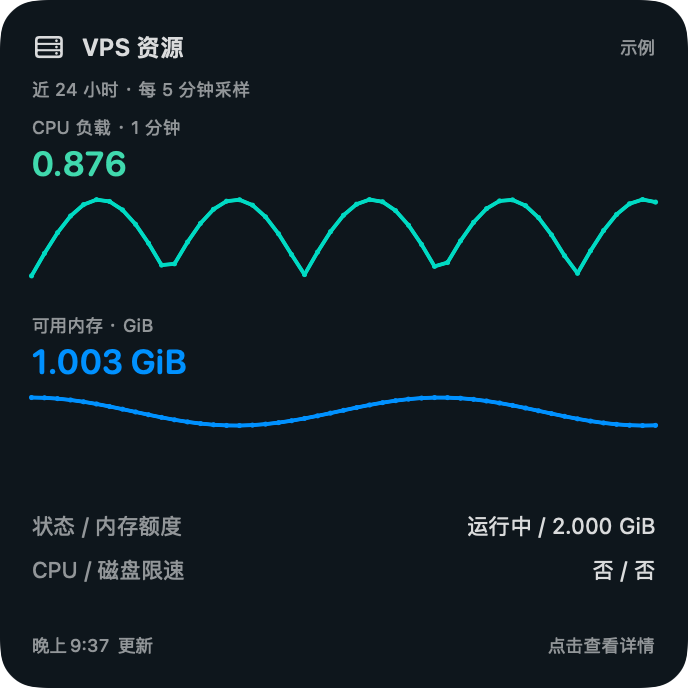
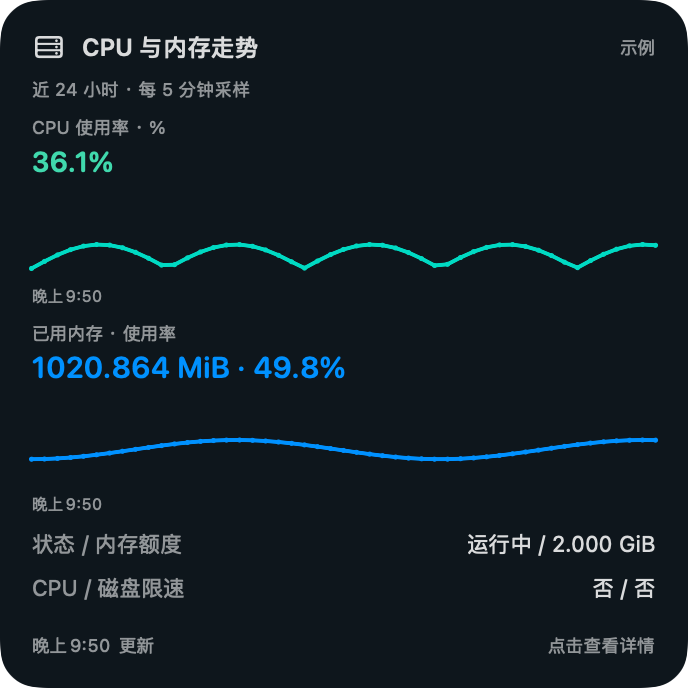
Show API CPU percentages and used memory with utilization

diff --git a/Sources/App.swift b/Sources/App.swift
@@ -33,6 +33,7 @@ enum Page: String, CaseIterable, Identifiable {
     @Published var interval = 5
     @Published var usageSamples: [UsagePoint] = []
     @Published var resourceSamples: [ResourcePoint] = []
+    @Published var cpuSamples: [ResourcePoint] = []
     var lastOverviewRequest: Date?
     @Published var showMenuBar = true
     @Published var loginEnabled = false
@@ -61,6 +62,7 @@ enum Page: String, CaseIterable, Identifiable {
     var info: [String: Any] { data[.info] ?? [:] }
     var live: [String: Any] { data[.live] ?? [:] }
     var traffic: Traffic? { Traffic(info) }
+    var memory: MemoryUsage? { MemoryUsage(total:numeric(live["plan_ram"] ?? info["plan_ram"]),available:numeric(live["mem_available_kb"]).map { $0 * 1024 }) }
     var configured: Bool { !veid.isEmpty && !key.isEmpty }
     init(demo: Bool) {
         self.demo = demo
@@ -73,6 +75,7 @@ enum Page: String, CaseIterable, Identifiable {
         do { key = try Vault.read(veid) ?? "" } catch { message = error.localizedDescription }
         showSettings = !configured
         resourceSamples = ResourceHistory.read(instanceID:veid)
+        cpuSamples = ResourceHistory.readCPU(instanceID:veid)
         startTimer()
     }
     func startTimer() {
@@ -97,6 +100,7 @@ enum Page: String, CaseIterable, Identifiable {
         task?.cancel(); loading = false
         veid = id; key = secret; interval = minutes
         resourceSamples = ResourceHistory.read(instanceID:id)
+        cpuSamples = ResourceHistory.readCPU(instanceID:id)
         UserDefaults.standard.set(id, forKey: "veid"); UserDefaults.standard.set(minutes, forKey: "interval")
         data = [:]; errors = [:]; updated = [:]; usageSamples = []; message = nil; showSettings = false
         startTimer(); refresh()
@@ -105,7 +109,7 @@ enum Page: String, CaseIterable, Identifiable {
         guard !demo else { return }
         try Vault.delete(veid)
         task?.cancel(); loading = false
-        resourceSamples = []
+        resourceSamples = []; cpuSamples = []
         do { try ResourceHistory.write([],instanceID:"") }
         catch { message = "本机资源历史清理失败。" }
         key = ""; veid = ""; data = [:]; errors = [:]; updated = [:]; usageSamples = []
@@ -117,7 +121,7 @@ enum Page: String, CaseIterable, Identifiable {
     }
     func refresh(missingOnly: Bool = false, includeOverview: Bool = true, resourcesOnly: Bool = false) {
         guard !loading, configured, !demo else { return }
-        var endpoints: [Endpoint] = resourcesOnly ? [.live] : includeOverview ? [.info, .live, .usage] : []
+        var endpoints: [Endpoint] = resourcesOnly ? [.live, .usage] : includeOverview ? [.info, .live, .usage] : []
         if includeOverview && !resourcesOnly { lastOverviewRequest = Date() }
         for ep in (resourcesOnly ? [] : page.endpoints) where !endpoints.contains(ep) { endpoints.append(ep) }
         if missingOnly { endpoints = endpoints.filter { data[$0] == nil && errors[$0] == nil } }
@@ -130,10 +134,15 @@ enum Page: String, CaseIterable, Identifiable {
                     let result = try await APIClient.fetch(endpoint, veid: id, key: secret)
                     guard !Task.isCancelled, veid == id else { return }
                     data[endpoint] = result; errors[endpoint] = nil; updated[endpoint] = Date()
-                    if endpoint == .usage { usageSamples = UsageHistory.parse(result) }
+                    if endpoint == .usage {
+                        usageSamples = UsageHistory.parse(result)
+                        cpuSamples = ResourceHistory.mergeCPU(ResourceHistory.cpuSamples(result),previous:cpuSamples)
+                        do { try ResourceHistory.write(resourceSamples,instanceID:id,cpuPoints:cpuSamples) }
+                        catch { message = "资源历史保存失败，请检查本机存储。" }
+                    }
                     if endpoint == .live, let point = ResourceHistory.sample(result) {
                         resourceSamples = ResourceHistory.append(point,to:resourceSamples)
-                        do { try ResourceHistory.write(resourceSamples,instanceID:id) }
+                        do { try ResourceHistory.write(resourceSamples,instanceID:id,cpuPoints:cpuSamples) }
                         catch { message = "资源历史保存失败，请检查本机存储。" }
                     }
                 } catch {
@@ -156,7 +165,8 @@ enum Page: String, CaseIterable, Identifiable {
             snapshot.instanceID = veid
             snapshot.resourceTrend = resourceSamples.filter { $0.time >= Date().addingTimeInterval(-86400) }
             snapshot.resourceUpdated = resourceSamples.last?.time
-            snapshot.resourceError = errors[.live] != nil
+            snapshot.resourceError = errors[.live] != nil || errors[.usage] != nil
+            snapshot.cpuTrend = cpuSamples.filter { $0.time >= Date().addingTimeInterval(-86400) }
             snapshot.trend = UsageHistory.aggregate(usageSamples, days: 7)
             snapshot.trendUpdated = updated[.usage]
             if usageSamples.isEmpty && updated[.usage] == nil {
@@ -189,6 +199,7 @@ enum Page: String, CaseIterable, Identifiable {
     }
     func seedDemo() {
         resourceSamples = ResourceHistory.demo
+        cpuSamples = ResourceHistory.demo
         veid = "1234567"
         data[.info] = ["error":0,"hostname":"My Bandwagon VPS","node_alias":"v1234","node_location":"US, Los Angeles","vm_type":"kvm","plan":"KVM • 2 GB / 40 GB","plan_ram":2147483648.0,"plan_swap":1073741824,"plan_disk":42949672960.0,"plan_monthly_data":1073741824000.0,"data_counter":289910292480.0,"monthly_data_multiplier":1,"data_next_reset":Date().addingTimeInterval(12*86400).timeIntervalSince1970,"ip_addresses":["192.0.2.10","2001:db8::/64"],"private_ip_addresses":[],"os":"debian-12-x86_64","suspended":0,"policy_violation":0,"ptr":["192.0.2.10":"vps.example.com"],"ip_nullroutes":[:],"email":"demo@example.com"]
         data[.live] = ["error":0,"ve_status":"Running","load_average":"0.08 0.12 0.09","mem_available_kb":1468006,"swap_total_kb":1048576,"swap_available_kb":1048576,"ve_used_disk_space_b":12884901888.0,"ve_disk_quota_gb":40,"is_cpu_throttled":0,"is_disk_throttled":0,"ssh_port":22,"live_hostname":"my-vps"]
@@ -356,7 +367,7 @@ struct RootView: View {
                 HStack {
                     Metric(title: "运行状态", value: stateText)
                     Metric(title: "系统负载", value: value("load_average", live: true))
-                    Metric(title: "可用内存", value: bytes(numeric(model.live["mem_available_kb"]).map { $0 * 1024 }))
+                    Metric(title: "已用内存", value: bytes(model.memory?.used))
                 }
                 Divider()
                 InfoRow(label: "CPU / 磁盘限速", value: "\(flag("is_cpu_throttled", live: true)) / \(flag("is_disk_throttled", live: true))")
@@ -377,10 +388,11 @@ struct RootView: View {
     }
     var resources: some View {
         Group {
-            ResourceHistoryPanel(points:model.resourceSamples)
+            ResourceHistoryPanel(points:model.resourceSamples,cpuPoints:model.cpuSamples)
             Panel(title: "内存与存储") {
                 InfoRow(label: "内存额度", value: bytes(numeric(model.info["plan_ram"])))
-                InfoRow(label: "可用内存", value: bytes(numeric(model.live["mem_available_kb"]).map { $0 * 1024 }))
+                InfoRow(label: "已用内存", value: bytes(model.memory?.used))
+                InfoRow(label: "内存使用率", value: memoryPercent(model.memory))
                 InfoRow(label: "Swap 额度", value: bytes(numeric(model.info["plan_swap"])))
                 InfoRow(label: "Swap 可用 / 总量", value: "\(bytes(numeric(model.live["swap_available_kb"]).map { $0 * 1024 })) / \(bytes(numeric(model.live["swap_total_kb"]).map { $0 * 1024 }))")
                 InfoRow(label: "磁盘套餐额度", value: bytes(numeric(model.info["plan_disk"])))
@@ -625,6 +637,27 @@ struct SettingsView: View {
         if CommandLine.arguments.contains("--runtime-status") {
             let snapshot = WidgetStore.read()
             print("Login: \(BackgroundService.statusText); menu visible: \(UserDefaults.standard.object(forKey: "showMenuBar") as? Bool ?? true); configured: \(snapshot.configured); trend points: \(snapshot.trend?.count ?? 0)")
+            return
+        }
+        if CommandLine.arguments.contains("--api-schema") {
+            Task { @MainActor in
+                do {
+                    let id = UserDefaults.standard.string(forKey:"veid") ?? ""
+                    guard !id.isEmpty, let key = try Vault.read(id) else { exit(1) }
+                    for endpoint in [Endpoint.info, .live, .usage] {
+                        let data = try await APIClient.fetch(endpoint,veid:id,key:key)
+                        print(endpoint.rawValue + " fields: " + data.keys.sorted().joined(separator:", "))
+                        if endpoint == .usage {
+                            let rows = data["data"] as? [[String:Any]] ?? Array((data["data"] as? [String:[String:Any]] ?? [:]).values)
+                            print("Usage sample fields: " + Set(rows.flatMap { $0.keys }).sorted().joined(separator:", "))
+                            let cpu = rows.compactMap { numeric($0["cpu_usage"]) }
+                            print("CPU field present: \( !cpu.isEmpty); all between 0 and 100: \( !cpu.isEmpty && cpu.allSatisfy { $0 >= 0 && $0 <= 100 }); values above 1000: \(cpu.contains { $0 > 1000 })")
+                        }
+                    }
+                    exit(0)
+                } catch { print("API schema inspection failed"); exit(1) }
+            }
+            NSApplication.shared.run()
             return
         }
         if CommandLine.arguments.contains("--widget-check") {

diff --git a/Shared/ResourceHistory.swift b/Shared/ResourceHistory.swift
@@ -2,15 +2,31 @@ import Foundation
 import SwiftUI
 import Charts
 
+struct MemoryUsage {
+    let total: Double
+    let available: Double
+    var used: Double { total - available }
+    var percent: Double { used / total * 100 }
+    init?(total: Double?, available: Double?) {
+        guard let total, let available, total.isFinite, available.isFinite, total > 0, available >= 0, available <= total else { return nil }
+        self.total = total; self.available = available
+    }
+}
+func memoryPercent(_ usage: MemoryUsage?) -> String { usage.map { String(format:"%.1f%%",$0.percent) } ?? "—" }
+
 struct ResourcePoint: Codable, Identifiable {
     var time: Date
     var load: Double?
     var availableRAM: Double?
+    var totalRAM: Double? = nil
+    var cpuPercent: Double? = nil
+    var memory: MemoryUsage? { MemoryUsage(total:totalRAM,available:availableRAM) }
     var id: Date { time }
 }
 struct ResourceArchive: Codable {
     var instanceID: String
     var points: [ResourcePoint]
+    var cpuPoints: [ResourcePoint]? = nil
 }
 enum ResourceHistory {
     static let retention: TimeInterval = 30 * 86400
@@ -20,7 +36,7 @@ enum ResourceHistory {
         let raw = live["mem_available_kb"]
         let memory = (raw as? NSNumber)?.doubleValue ?? (raw as? String).flatMap(Double.init)
         func valid(_ n: Double?) -> Double? { n.flatMap { $0.isFinite && $0 >= 0 ? $0 : nil } }
-        let point = ResourcePoint(time: now, load: valid(load), availableRAM: valid(memory.map { $0 * 1024 }))
+        let point = ResourcePoint(time: now, load: valid(load), availableRAM: valid(memory.map { $0 * 1024 }), totalRAM: valid((live["plan_ram"] as? NSNumber)?.doubleValue ?? (live["plan_ram"] as? String).flatMap(Double.init)))
         return point.load == nil && point.availableRAM == nil ? nil : point
     }
     static func append(_ point: ResourcePoint, to points: [ResourcePoint]) -> [ResourcePoint] {
@@ -37,17 +53,41 @@ enum ResourceHistory {
         guard let archive = try? JSONDecoder().decode(ResourceArchive.self,from:data), archive.instanceID == instanceID else { return nil }
         return archive.points.filter { $0.time >= now.addingTimeInterval(-retention) && $0.time <= now }.sorted { $0.time < $1.time }
     }
-    static func write(_ points: [ResourcePoint], instanceID: String) throws {
+    static func write(_ points: [ResourcePoint], instanceID: String, cpuPoints: [ResourcePoint] = []) throws {
         guard let dir = WidgetStore.directory else { throw NSError(domain:"ResourceHistory",code:1) }
         try FileManager.default.createDirectory(at:dir,withIntermediateDirectories:true)
         let path = dir.appendingPathComponent("resource-history.json")
-        try JSONEncoder().encode(ResourceArchive(instanceID:instanceID,points:points)).write(to:path,options:.atomic)
+        try JSONEncoder().encode(ResourceArchive(instanceID:instanceID,points:points,cpuPoints:cpuPoints)).write(to:path,options:.atomic)
         try FileManager.default.setAttributes([.posixPermissions:0o600],ofItemAtPath:path.path)
+    }
+    static func cpuSamples(_ payload: [String:Any], now: Date = Date()) -> [ResourcePoint] {
+        let rows = payload["data"] as? [[String:Any]] ?? Array((payload["data"] as? [String:[String:Any]] ?? [:]).values)
+        var points: [Date:ResourcePoint] = [:]
+        func number(_ v: Any?) -> Double? { (v as? NSNumber)?.doubleValue ?? (v as? String).flatMap(Double.init) }
+        for row in rows {
+            guard let stamp = number(row["timestamp"]), stamp.isFinite, stamp > 0,
+                  let cpu = number(row["cpu_usage"]), cpu.isFinite, cpu >= 0 else { continue }
+            let time = Date(timeIntervalSince1970:stamp)
+            guard time <= now, time >= now.addingTimeInterval(-retention) else { continue }
+            points[time] = ResourcePoint(time:time,load:nil,availableRAM:nil,cpuPercent:cpu)
+        }
+        return points.values.sorted { $0.time < $1.time }
+    }
+    static func mergeCPU(_ fresh: [ResourcePoint], previous: [ResourcePoint], now: Date = Date()) -> [ResourcePoint] {
+        var merged: [Date:ResourcePoint] = [:]
+        for p in previous + fresh where p.time >= now.addingTimeInterval(-retention) && p.time <= now { merged[p.time] = p }
+        return merged.values.sorted { $0.time < $1.time }
+    }
+    static func readCPU(instanceID: String, now: Date = Date()) -> [ResourcePoint] {
+        guard let dir = WidgetStore.directory,
+              let data = try? Data(contentsOf:dir.appendingPathComponent("resource-history.json")),
+              let archive = try? JSONDecoder().decode(ResourceArchive.self,from:data), archive.instanceID == instanceID else { return [] }
+        return mergeCPU([],previous:archive.cpuPoints ?? [],now:now)
     }
     static var demo: [ResourcePoint] {
         let now = Date()
         return (0..<49).map { i in
-            ResourcePoint(time:now.addingTimeInterval(Double(i - 48)*300),load:0.2 + abs(sin(Double(i)*0.3))*0.7,availableRAM:(1.2 + cos(Double(i)*0.2)*0.2)*1073741824)
+            ResourcePoint(time:now.addingTimeInterval(Double(i - 48)*300),load:0.2 + abs(sin(Double(i)*0.3))*0.7,availableRAM:(1.2 + cos(Double(i)*0.2)*0.2)*1073741824,totalRAM:2*1073741824,cpuPercent:12 + abs(sin(Double(i)*0.3))*25)
         }
     }
     static func test() throws {
@@ -65,6 +105,16 @@ enum ResourceHistory {
         guard decode(encoded,instanceID:"demo",now:now.addingTimeInterval(60))?.count == 1,
               decode(encoded,instanceID:"another-vps",now:now) == nil,
               decode(Data("invalid".utf8),instanceID:"demo",now:now) == nil else { throw NSError(domain:"Resource cache",code:1) }
+        guard let memory = MemoryUsage(total:2048,available:512), memory.used == 1536, memory.percent == 75,
+              MemoryUsage(total:0,available:0) == nil, MemoryUsage(total:1024,available:2048) == nil,
+              MemoryUsage(total:1024,available:nil) == nil else { throw NSError(domain:"Memory calculation",code:1) }
+        let cpu = cpuSamples(["data":[["timestamp":now.timeIntervalSince1970,"cpu_usage":"12.5"], ["timestamp":now.timeIntervalSince1970-300,"cpu_usage":0], ["timestamp":now.timeIntervalSince1970-600,"cpu_usage":-1], ["timestamp":now.timeIntervalSince1970-900]]],now:now)
+        guard cpu.count == 2, cpu.last?.cpuPercent == 12.5, cpu.first?.cpuPercent == 0,
+              mergeCPU(cpu,previous:cpu,now:now).count == 2 else { throw NSError(domain:"CPU history",code:1) }
+        let legacy = Data("{\"instanceID\":\"demo\",\"points\":[]}".utf8)
+        guard decode(legacy,instanceID:"demo",now:now)?.isEmpty == true else { throw NSError(domain:"Legacy history",code:1) }
+        print("PASS: CPU 原始百分比、有效零值、缺失值、历史去重与旧缓存兼容")
+        print("PASS: 已用内存、使用率、缺失数据与无效额度处理")
         print("PASS: 资源采样解析、停机与缺失值、有效零值、五分钟去重、30天保留及缓存编码")
     }
 }
@@ -83,7 +133,7 @@ struct ResourceTrend: View {
         var segment = 0
         var previous: Date?
         for point in points {
-            guard let value = memory ? point.availableRAM.map({ $0 / 1073741824 }) : point.load else { segment += 1; previous = nil; continue }
+            guard let value = memory ? point.memory?.percent : point.cpuPercent else { segment += 1; previous = nil; continue }
             if let previous, point.time.timeIntervalSince(previous) > 450 { segment += 1 }
             result.append(PlotPoint(time:point.time,value:value,segment:segment))
             previous = point.time
@@ -95,11 +145,11 @@ struct ResourceTrend: View {
             Text("等待采样").font(.caption).foregroundStyle(.secondary).frame(maxWidth:.infinity,maxHeight:.infinity)
         } else {
             Chart(plotted) { point in
-                LineMark(x:.value("时间",point.time),y:.value(memory ? "GiB" : "负载",point.value),series:.value("连续段",point.segment))
+                LineMark(x:.value("时间",point.time),y:.value("%",point.value),series:.value("连续段",point.segment))
                     .foregroundStyle(memory ? Color.blue : Color.mint)
                 PointMark(x:.value("时间",point.time),y:.value("数值",point.value)).foregroundStyle(memory ? Color.blue : Color.mint).symbolSize(compact ? 5 : 10)
             }
-            .chartYScale(domain:0...max(0.01,(plotted.map(\.value).max() ?? 0)*1.1))
+            .chartYScale(domain:0...(memory ? 100 : max(100,(plotted.map(\.value).max() ?? 0)*1.1)))
             .chartXAxis { if !compact { AxisMarks(values:.automatic(desiredCount:4)) { _ in AxisGridLine(); AxisValueLabel(format:.dateTime.hour().minute()) } } }
             .chartYAxis { if !compact { AxisMarks(position:.leading,values:.automatic(desiredCount:3)) } }
             .chartLegend(.hidden)

diff --git a/Widget/BandwagonWidgets.swift b/Widget/BandwagonWidgets.swift
@@ -29,7 +29,7 @@ struct MonitorWidgetView: View {
     var body: some View {
         VStack(alignment: .leading, spacing: family == .systemSmall ? 4 : 8) {
             HStack {
-                Label(category == "traffic" ? "搬瓦工流量" : category == "resources" ? "VPS 资源" : category == "history" ? "流量走势" : "VPS 网络", systemImage: "server.rack").font(.system(size: 12, weight: .semibold))
+                Label(category == "traffic" ? "搬瓦工流量" : category == "resources" ? "CPU 与内存走势" : category == "history" ? "流量走势" : "VPS 网络", systemImage: "server.rack").font(.system(size: 12, weight: .semibold))
                 Spacer(minLength: 0)
                 if entry.preview { Text("示例").font(.system(size: 9)).foregroundStyle(.secondary) }
             }
@@ -96,7 +96,7 @@ struct MonitorWidgetView: View {
                 row("已用 / 总额", "\(widgetBytes(s.used)) / \(widgetBytes(s.total))")
                 Divider()
                 UsageTrend(points:s.trend ?? [],compact:false).frame(height:100)
-                row("状态 / 可用内存", "\(s.state) / \(widgetBytes(s.availableRAM))")
+                row("已用内存 / 使用率", "\(widgetBytes(s.memory?.used)) / \(memoryPercent(s.memory))")
                 row("CPU / 磁盘限速", "\(flag(s.cpuThrottled)) / \(flag(s.diskThrottled))")
             }
         }
@@ -143,16 +143,17 @@ struct MonitorWidgetView: View {
         }
     }
     func resourcePlot(memory: Bool) -> some View {
-        let points = (s.resourceTrend ?? []).filter { $0.time >= entry.date.addingTimeInterval(-86400) }
+        let points = ((memory ? s.resourceTrend : s.cpuTrend) ?? []).filter { $0.time >= entry.date.addingTimeInterval(-86400) }
         let latest = points.last
         return VStack(alignment:.leading,spacing:3) {
             HStack {
-                Text(memory ? "可用内存 · GiB" : "CPU 负载 · 1 分钟")
+                Text(memory ? "已用内存 · 使用率" : "CPU 使用率 · %")
                 if family == .systemLarge { Spacer(minLength:0) }
             }.font(.system(size:9)).foregroundStyle(.secondary)
-            Text(memory ? widgetBytes(latest?.availableRAM) : latest?.load.map { String(format:"%.3f",$0) } ?? "—")
+            Text(memory ? "\(widgetBytes(latest?.memory?.used)) · \(memoryPercent(latest?.memory))" : latest?.cpuPercent.map { String(format:"%.1f%%",$0) } ?? "—")
                 .font(.system(size:17,weight:.semibold,design:.rounded)).foregroundStyle(memory ? Color.blue : mint).lineLimit(1).minimumScaleFactor(0.6)
-            ResourceTrend(points:points,memory:memory,compact:true).frame(height:family == .systemLarge ? 54 : 32)
+            ResourceTrend(points:points,memory:memory,compact:true).frame(height:family == .systemLarge ? 48 : 23)
+            if let date = latest?.time { Text(date,style:.time).font(.system(size:8)).foregroundStyle(.secondary) }
         }.frame(maxWidth:.infinity,alignment:.leading)
     }
     var networkContent: some View {
@@ -200,7 +201,7 @@ struct ResourcesWidget: Widget {
     let kind = "BandwagonResources"
     var body: some WidgetConfiguration {
         StaticConfiguration(kind: kind, provider: MonitorProvider()) { MonitorWidgetView(entry: $0, category: "resources") }
-            .configurationDisplayName("VPS 资源").description("最近 24 小时 CPU 系统负载与可用内存走势；每 5 分钟采样，负载非使用率百分比。")
+            .configurationDisplayName("CPU 与内存走势图").description("最近 24 小时 CPU 使用率与内存使用率走势、已用内存；每 5 分钟刷新。")
             .supportedFamilies([.systemMedium,.systemLarge])
     }
 }

diff --git a/Sources/HistoryView.swift b/Sources/HistoryView.swift
@@ -23,27 +23,31 @@ struct HistoryView: View {
             if let updated = model.updated[.usage] { Text("统计更新：\(updated.formatted(date:.abbreviated,time:.shortened))").font(.caption).foregroundStyle(.secondary) }
             Text("按 API 原始入站与出站字节汇总，不套用套餐换算系数；当前时段未结束，缺失时段不补零。") .font(.caption).foregroundStyle(.secondary)
         }
-        ResourceHistoryPanel(points:model.resourceSamples)
+        ResourceHistoryPanel(points:model.resourceSamples,cpuPoints:model.cpuSamples)
         }
     }
 }
 
 struct ResourceHistoryPanel: View {
     var points: [ResourcePoint]
+    var cpuPoints: [ResourcePoint]
+    var cpuRecent: [ResourcePoint] { cpuPoints.filter { $0.time >= Date().addingTimeInterval(-86400) } }
     var recent: [ResourcePoint] { points.filter { $0.time >= Date().addingTimeInterval(-86400) } }
     var body: some View {
-        Panel(title:"CPU 负载与内存走势") {
+        Panel(title:"CPU 与内存走势") {
             Text("最近 24 小时 · 每 5 分钟采样").font(.caption).foregroundStyle(.secondary)
             HStack {
-                Metric(title:"CPU 系统负载 · 1 分钟",value:recent.last?.load.map { String(format:"%.3f",$0) } ?? "—")
-                Metric(title:"可用内存",value:bytes(recent.last?.availableRAM))
+                Metric(title:"CPU 使用率",value:cpuRecent.last?.cpuPercent.map { String(format:"%.1f%%",$0) } ?? "—")
+                Metric(title:"已用内存",value:bytes(recent.last?.memory?.used))
+                Metric(title:"内存使用率",value:memoryPercent(recent.last?.memory))
             }
-            Text("CPU 系统负载（非使用率 %）").font(.caption).foregroundStyle(.secondary)
-            ResourceTrend(points:recent).frame(height:140)
-            Text("可用内存 · GiB").font(.caption).foregroundStyle(.secondary)
+            Text("CPU 使用率 · API 统计值（%）").font(.caption).foregroundStyle(.secondary)
+            ResourceTrend(points:cpuRecent).frame(height:140)
+            if let date = cpuRecent.last?.time { Text("CPU 采样：\(date.formatted(date:.abbreviated,time:.shortened))").font(.caption).foregroundStyle(.secondary) }
+            Text("内存使用率 · %").font(.caption).foregroundStyle(.secondary)
             ResourceTrend(points:recent,memory:true).frame(height:140)
-            if let date = recent.last?.time { Text("采样更新：\(date.formatted(date:.abbreviated,time:.shortened))").font(.caption).foregroundStyle(.secondary) }
-            Text("历史从启用后累积，本机保留 30 天；休眠、退出或请求失败期间不补点。首个采样显示为单点。").font(.caption).foregroundStyle(.secondary)
+            if let date = recent.last?.time { Text("内存采样：\(date.formatted(date:.abbreviated,time:.shortened))").font(.caption).foregroundStyle(.secondary) }
+            Text("CPU 使用历史接口原始百分比；内存已用量＝套餐额度－可用内存，使用率以额度为分母。内存历史从启用后累积；缺失不补零，本机保留 30 天。").font(.caption).foregroundStyle(.secondary)
         }
     }
 }

diff --git a/Shared/WidgetSnapshot.swift b/Shared/WidgetSnapshot.swift
@@ -12,6 +12,7 @@ struct WidgetSnapshot: Codable {
     var load = "—"
     var availableRAM: Double?
     var totalRAM: Double?
+    var memory: MemoryUsage? { MemoryUsage(total:totalRAM,available:availableRAM) }
     var availableSwap: Double?
     var totalSwap: Double?
     var mappedDisk: Double?
@@ -30,6 +31,7 @@ struct WidgetSnapshot: Codable {
     var trend: [UsagePoint]?
     var trendUpdated: Date?
     var resourceTrend: [ResourcePoint]?
+    var cpuTrend: [ResourcePoint]?
     var resourceUpdated: Date?
     var resourceError: Bool?
     static var sample: WidgetSnapshot {
@@ -51,6 +53,7 @@ struct WidgetSnapshot: Codable {
         }
         s.trendUpdated = Date()
         s.resourceTrend = ResourceHistory.demo
+        s.cpuTrend = ResourceHistory.demo
         s.resourceUpdated = s.resourceTrend?.last?.time
         return s
     }

diff --git a/README.md b/README.md
@@ -73,11 +73,11 @@ export TEAM_ID='YOUR_TEAM_ID'
 - “登录后自动启动”通过 `SMAppService` 管理。若显示等待系统允许，可从设置中的按钮打开系统登录项设置。
 - 关闭“在菜单栏显示”只隐藏图标；点击桌面小组件或重新打开应用仍可进入详情。
 - 设置页的“退出应用”会结束后台更新，直到再次打开或下次登录；不会自动关闭登录启动偏好。
-- 默认每 5 分钟同步更新总览和流量历史统计（跟随设置中的自动刷新间隔）；成功写入数据后通知小组件刷新。小组件也每 5 分钟请求重新读取数据，实际显示时间由 macOS 调度。手动刷新可立即请求。
+- 默认每 5 分钟更新总览（跟随设置中的自动刷新间隔），流量与 CPU 历史统计固定每 5 分钟拉取；成功写入数据后通知小组件刷新。小组件也每 5 分钟请求重新读取数据，实际显示时间由 macOS 调度。手动刷新可立即请求。
 - WidgetKit 的屏幕刷新由 macOS 调度，不能保证与 API 轮询同时发生。关机、休眠、断网时无法持续拉取；唤醒后会触发刷新。
 - 当前支持单台 VPS，不包含系统推送通知、账单查询或网络连通性探测。
 
-- CPU 系统负载与可用内存固定每 5 分钟采样，不受总览刷新间隔影响；应用资源页、统计页和「VPS 资源」小组件显示最近 24 小时走势。
+- CPU 使用率与内存统计固定每 5 分钟刷新，不受总览刷新间隔影响；应用资源页、统计页和「CPU 与内存走势图」小组件显示最近 24 小时走势。该卡片原名「VPS 资源」，已有卡片会继续更新；添加时请选择中或大尺寸。
 
 ## 统计口径
 
@@ -85,7 +85,7 @@ export TEAM_ID='YOUR_TEAM_ID'
 
 走势图使用历史接口的原始 `network_in_bytes` 与 `network_out_bytes`，不套用套餐换算系数。24 小时按小时、7/30 天按本地自然日汇总；当前时段尚未结束。缺失时段不补零、不跨缺口连线，同时间戳记录去重。空数据不绘制模拟曲线。
 
-资源曲线使用 `getLiveServiceInfo` 返回的 1 分钟系统负载（`load_average` 第一项，非 CPU 使用率百分比）与可用内存（`mem_available_kb`）。历史从启用后累积，按 VPS 隔离存放在本机共享容器的 `resource-history.json` 中，保留 30 天；不包含 API Key。重启恢复历史，切换 VPS 不混用数据。停机、休眠、退出、缺失字段或请求失败期间不补零，采样缺口不连线。
+CPU 曲线直接使用 `getRawUsageStats` 的 `cpu_usage` 原始百分比与原始时间戳，不将系统负载换算成百分比；它是 API 统计时段的使用率，可能晚于当前时间。内存数据使用 `getLiveServiceInfo` 的 `plan_ram` 与 `mem_available_kb`：已用量＝套餐额度－可用内存，使用率＝已用量÷套餐额度；这是基于额度的统计口径。缺失或不合理数据不显示为零。内存历史从启用后累积，旧记录缺少额度时不倒推。CPU 与内存分别显示采样时间。历史按 VPS 隔离存放在本机共享容器的 `resource-history.json` 中，保留 30 天；不包含 API Key。重启恢复历史，切换 VPS 不混用数据。停机、休眠、退出、缺失字段或请求失败期间不补零，采样缺口不连线。
 
 宿主机已映射磁盘空间不等同于系统内 `df` 的文件用量；虚拟机运行也不代表其中的服务可访问。
 
